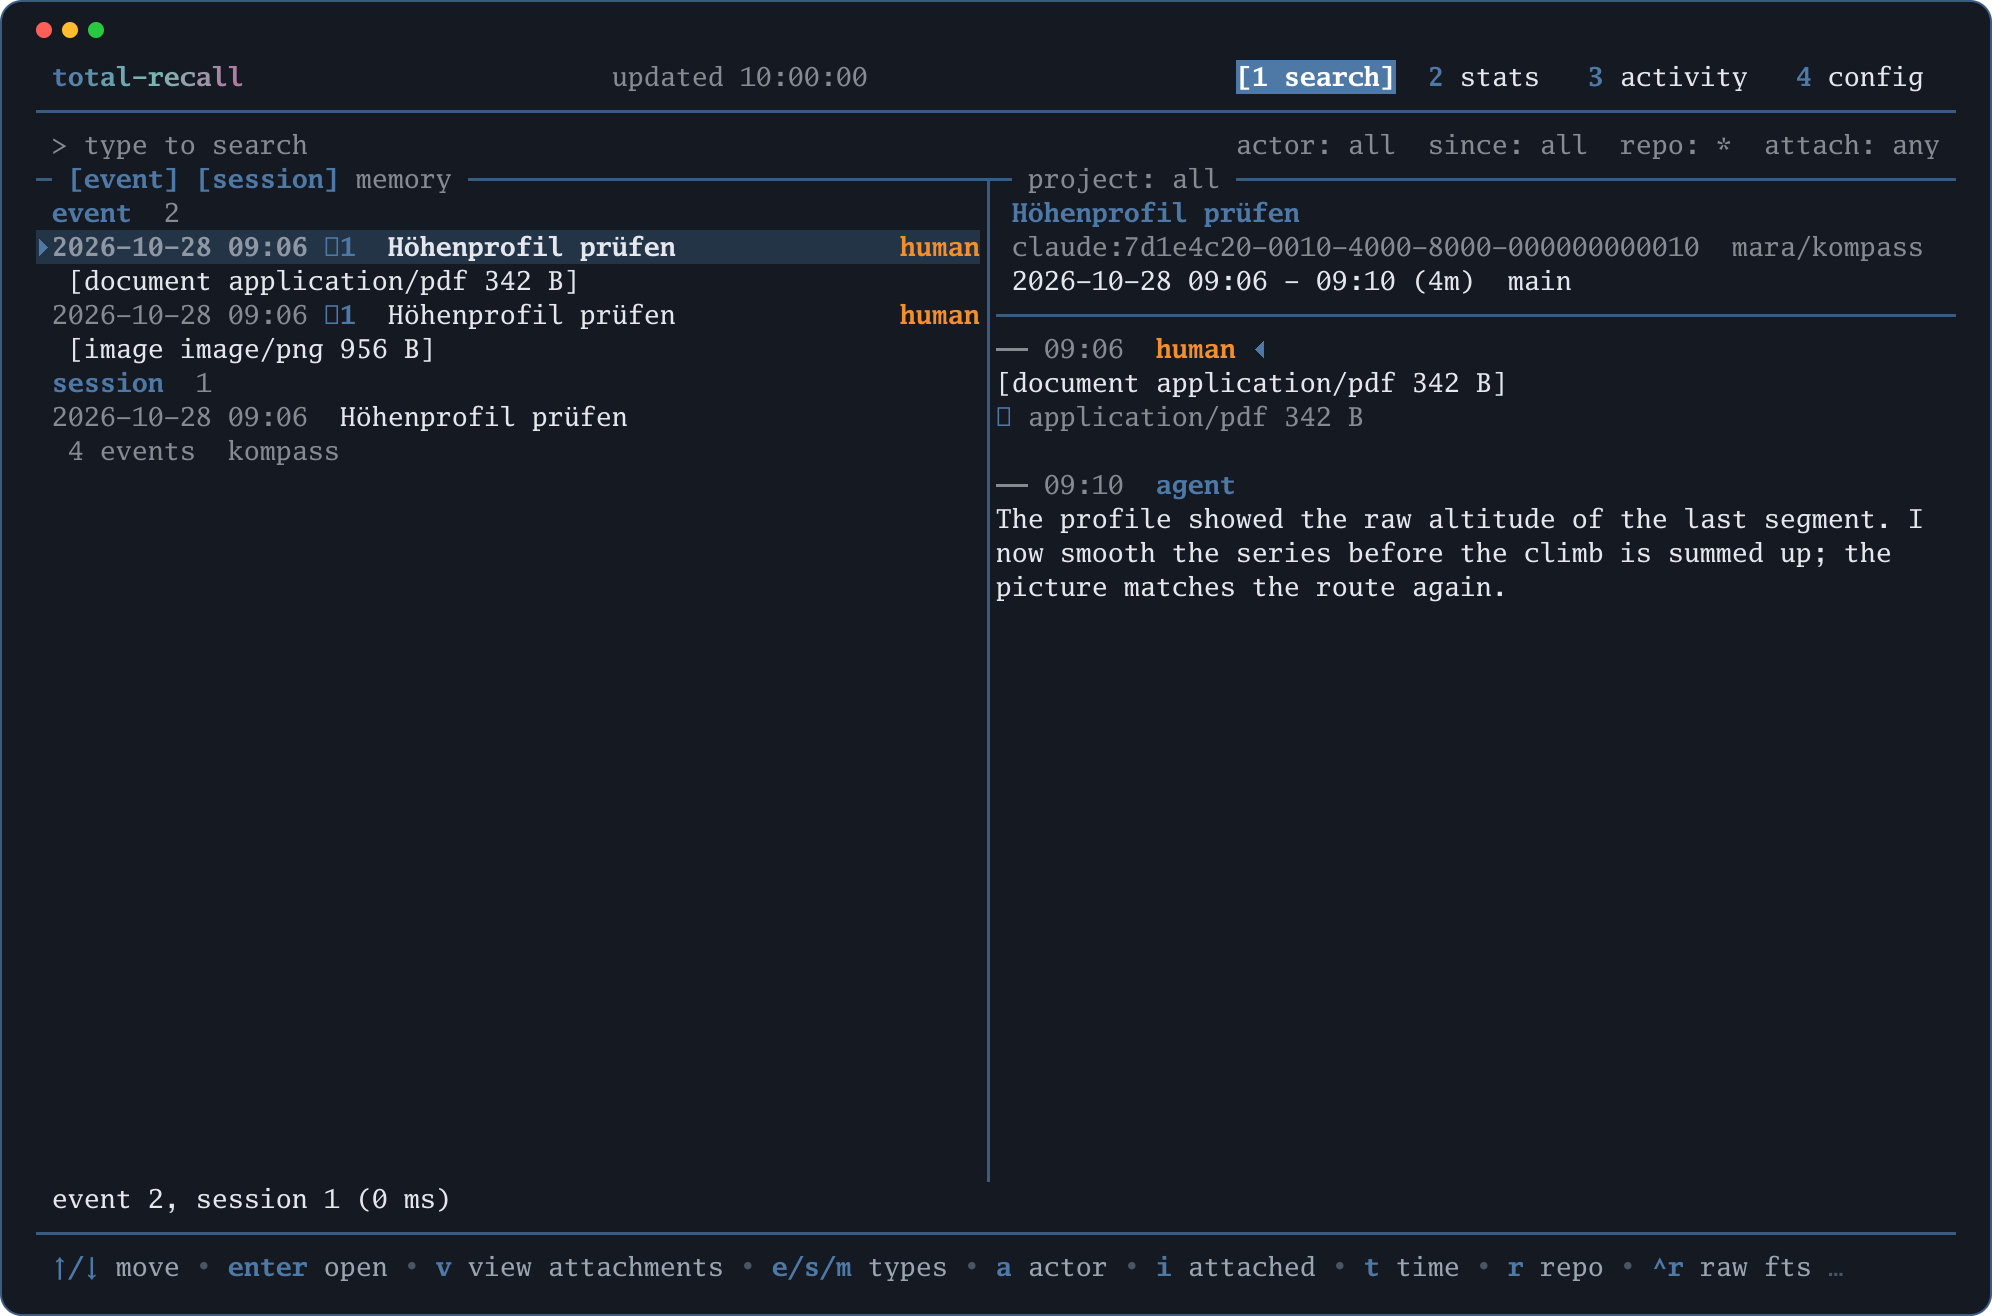
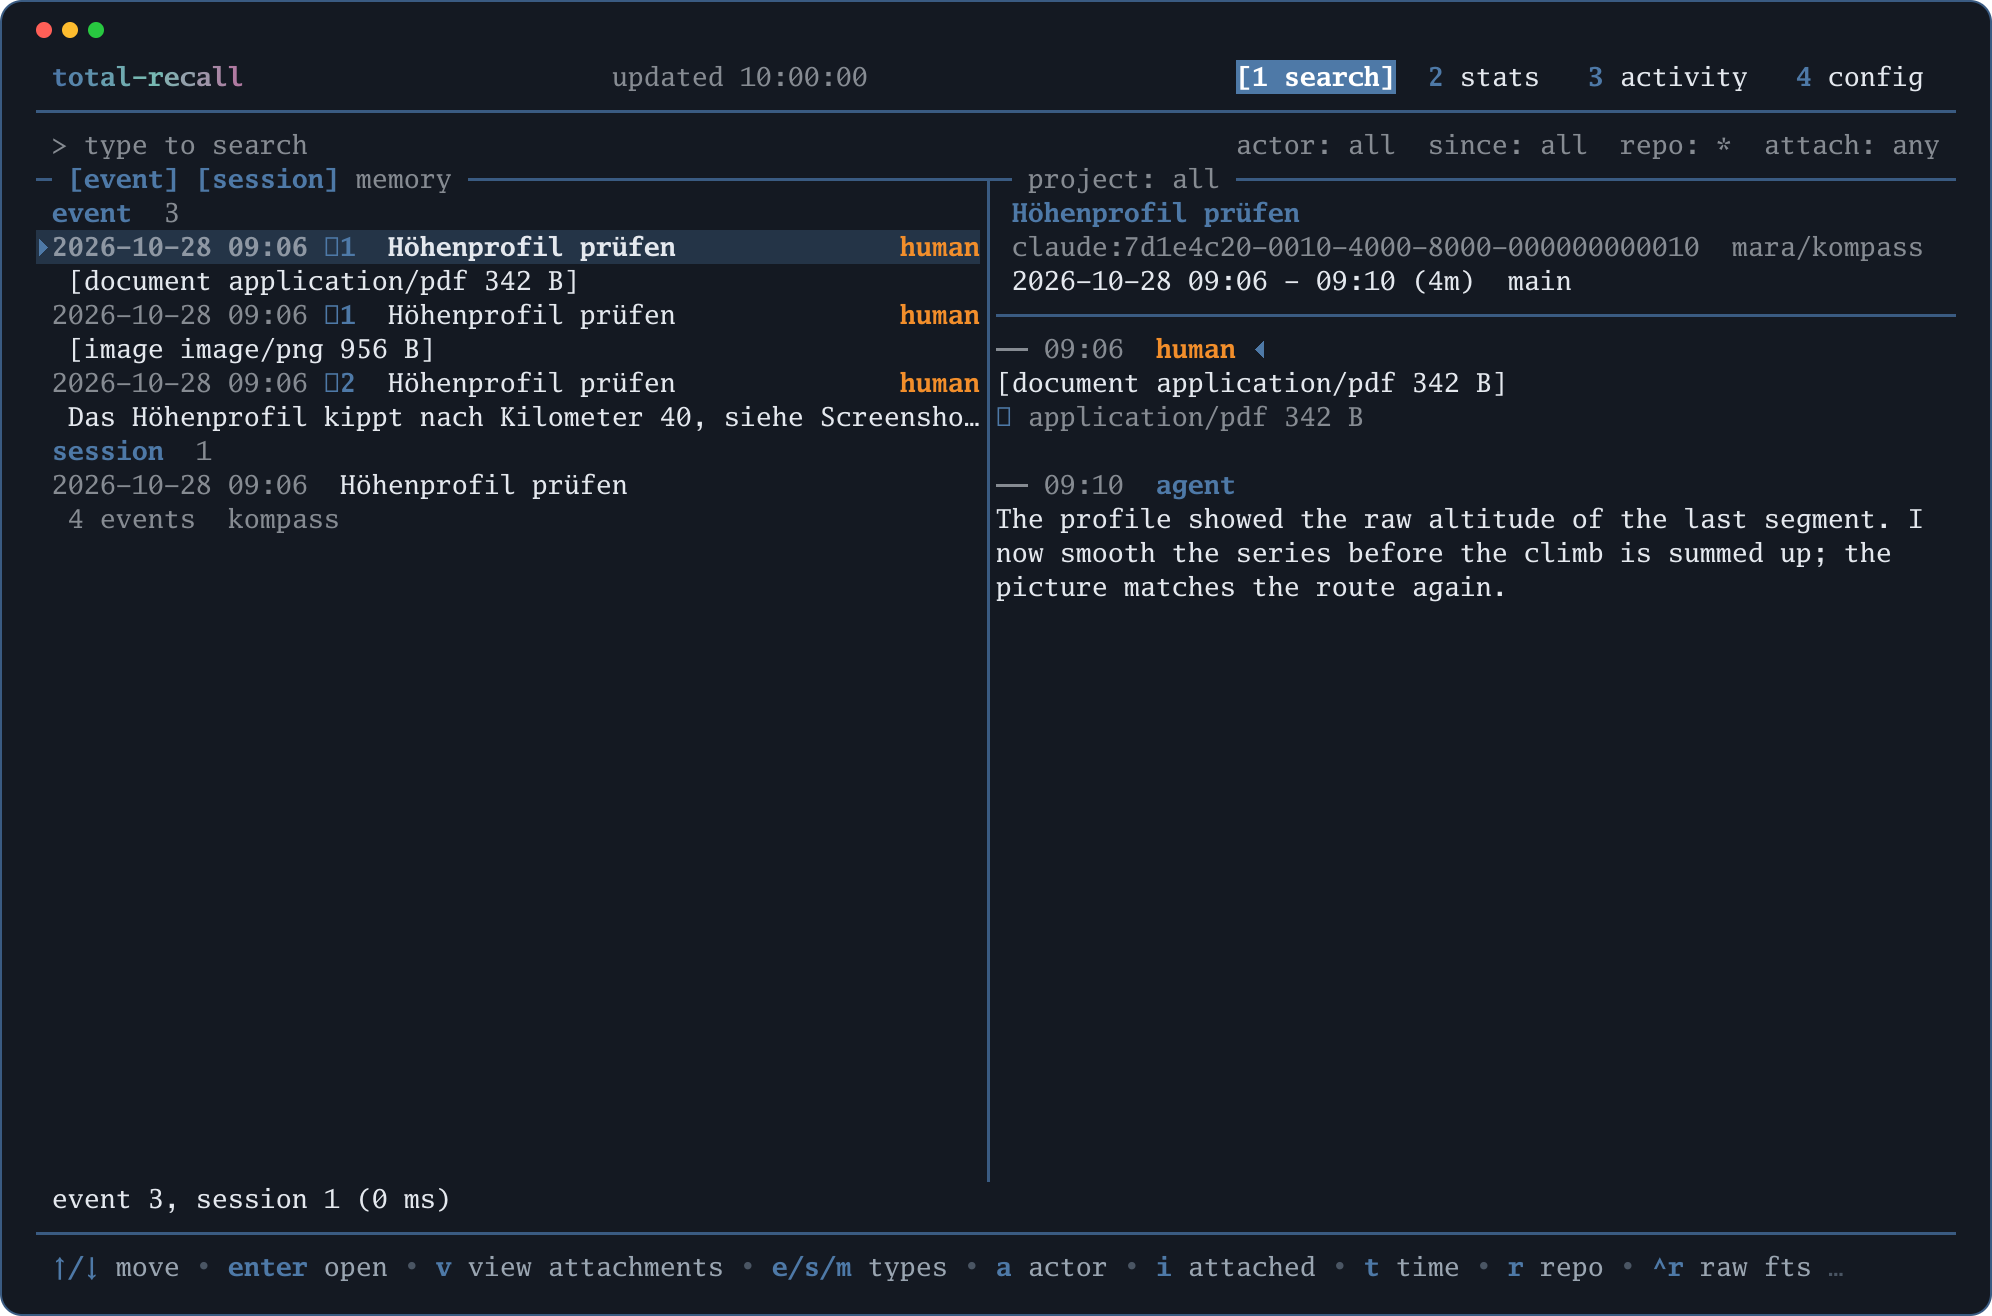
test(tui): attachment filter follows the pairing of text and image events

Changed region(s): [[0.0311, 0.2804, 0.3424, 0.405], [0.3735, 0.2804, 0.498, 0.3427]]

diff --git a/internal/tui/tui_test.go b/internal/tui/tui_test.go
@@ -628,12 +628,12 @@ func TestAttachmentView(t *testing.T) {
 		{"mark in the list", "image", []string{"tab"}, []string{"▣1", "v view attachments"}, nil},
 		{"text of a message with images", "Höhenprofil kippt", []string{"tab"}, []string{"▣2", "▣ image/png", "▣ application/pdf", "v view attachments"}, nil},
 		{"v on that text opens the image", "Höhenprofil kippt", []string{"tab", "v"}, []string{"› attachments", "[1 image/png", "png 96×48"}, nil},
-		{"empty search with the filter lists the attachments", "", []string{"tab", "i"}, []string{"attach: any", "▣1", "2 hits", "[image image/png", "[document application/pdf"}, []string{"Type to search"}},
-		{"only images", "", []string{"tab", "i", "i"}, []string{"attach: image", "1 hit", "[image image/png 956 B]"}, nil},
-		{"only documents", "", []string{"tab", "i", "i", "i"}, []string{"attach: document", "1 hit", "[document application/pdf 342 B]"}, nil},
+		{"empty search with the filter lists the attachments", "", []string{"tab", "i"}, []string{"attach: any", "▣1", "▣2", "3 hits", "[image image/png", "[document application/pdf", "Das Höhenprofil kippt"}, []string{"Type to search"}},
+		{"only images", "", []string{"tab", "i", "i"}, []string{"attach: image", "2 hits", "[image image/png 956 B]", "Das Höhenprofil kippt"}, nil},
+		{"only documents", "", []string{"tab", "i", "i", "i"}, []string{"attach: document", "2 hits", "[document application/pdf 342 B]", "Das Höhenprofil kippt"}, nil},
 		{"only attachments of the tool", "", []string{"tab", "a", "a", "a", "a", "i"}, []string{"actor: tool", "attach: any", "No attachments."}, nil},
 		{"filter off again", "", []string{"tab", "i", "i", "i", "i"}, []string{"Type to search"}, []string{"▣", "attach:"}},
-		{"sessions with an attachment", "", []string{"tab", "e", "s", "i"}, []string{"event  2", "session  1", "Höhenprofil prüfen"}, nil},
+		{"sessions with an attachment", "", []string{"tab", "e", "s", "i"}, []string{"event  3", "session  1", "Höhenprofil prüfen"}, nil},
 		{"from the search", "image", []string{"tab", "v"}, []string{"› attachments", "Höhenprofil prüfen", "png 96×48", "1 image/png", "2 application/pdf"}, nil},
 		{"next shows the document", "image", []string{"tab", "v", "right"}, []string{"Notes on the track format", "PDF 1.4"}, []string{"png 96×48"}},
 		{"back to the search", "image", []string{"tab", "v", "esc"}, []string{"[1 search]", "▣1"}, []string{"› attachments"}},

diff --git a/internal/screenshot/frames_test.go b/internal/screenshot/frames_test.go
@@ -64,7 +64,7 @@ func TestRenderAll(t *testing.T) {
 		"memory-diff":              {"› memory", "history of release-process.md", "· diff", "version 1 of 3 → ", "+8 -3", "@@ -1,9 +1,14 @@", " - A release is a tag on", " + A release is a signed tag on"},
 		"memory-timeline":          {"› memory", "kompass  timeline", "2026-10-28 10:00 ✗ old-notes.md", "2026-10-28 09:35 ~ MEMORY.md", "10 changes", "@@"},
 		"search-attachment":        {"[1 search]", "> image", "▣1", "Höhenprofil prüfen", "▣ image/png", "v view attachments"},
-		"search-attachment-filter": {"[1 search]", "> type to search", "attach: any", " event  2", " session  1", "▣1", "Höhenprofil prüfen", "i attached"},
+		"search-attachment-filter": {"[1 search]", "> type to search", "attach: any", " event  3", " session  1", "▣1", "Höhenprofil prüfen", "i attached"},
 		"attachment-image":         {"› attachments", "Höhenprofil prüfen", "[1 image/png", "2 application/pdf", "png 96×48", "total-recall blob", "▓"},
 		"attachment-document":      {"› attachments", "[2 application/pdf", "PDF 1.4", "pages", "Notes on the track format", "Mara Example"},
 		"attachment-narrow":        {"› attachments", "png 96×48", "total-recall blob"},

diff --git a/docs/reference/30-tui.md b/docs/reference/30-tui.md
@@ -204,7 +204,7 @@ Die Hervorhebung in Vorschau und Detailansicht nimmt die Wörter der Eingabe; in
 
 ### Anhänge finden { #anhaenge-finden }
 
-`i` schränkt die Suche auf das ein, was einen [Anhang](#anhaenge) hat: bei `event` die Events, die ein Bild oder Dokument tragen, bei `session` die Sessions mit mindestens einem solchen Event. `image` nimmt nur Bilder, `document` alles andere (PDF, Text). Der Actor-Filter `a` gilt dann auch für den Anhang: `human` sind die Bilder, die man selbst eingefügt hat, `tool` die Bilder aus Tool-Ergebnissen (Screenshots und Ähnliches), davon liegt im Archiv der größte Teil. `memory` hat keine Anhänge und bleibt mit dem Filter leer. Ohne Suchwort listet der Filter **die neuesten Anhänge**: Die leere Suche ist dann kein Hinweis mehr, sondern die Liste der neuesten Events (Zeit, Session, Text-Anfang, `▣` mit der Zahl) beziehungsweise Sessions mit Anhang, damit man ohne Stichwort einsteigen kann; mit Suchwort schränkt der Filter die Treffer ein. Zeitraum, Repo und Projekt-Pin gelten wie sonst. `i` steht in der Fußzeile (`i attached`) und ist dort mit der Maus klickbar wie jeder Hinweis; die Taste ist als `search_has_attachment` über `[keys]` änderbar. Auf der Kommandozeile entspricht dem `search --has-attachment`, siehe [Befehle](10-befehle.md#search).
+`i` schränkt die Suche auf das ein, was einen [Anhang](#anhaenge) hat: bei `event` die Events, die ein Bild oder Dokument tragen, und der Text-Event einer Nachricht mit Bildern (`[Image #1] …`, dieselbe Paarung wie bei `attachment_count`), bei `session` die Sessions mit mindestens einem solchen Event. `image` nimmt nur Bilder, `document` alles andere (PDF, Text). Der Actor-Filter `a` gilt dann auch für den Anhang: `human` sind die Bilder, die man selbst eingefügt hat, `tool` die Bilder aus Tool-Ergebnissen (Screenshots und Ähnliches), davon liegt im Archiv der größte Teil. `memory` hat keine Anhänge und bleibt mit dem Filter leer. Ohne Suchwort listet der Filter **die neuesten Anhänge**: Die leere Suche ist dann kein Hinweis mehr, sondern die Liste der neuesten Events (Zeit, Session, Text-Anfang, `▣` mit der Zahl) beziehungsweise Sessions mit Anhang, damit man ohne Stichwort einsteigen kann; mit Suchwort schränkt der Filter die Treffer ein. Zeitraum, Repo und Projekt-Pin gelten wie sonst. `i` steht in der Fußzeile (`i attached`) und ist dort mit der Maus klickbar wie jeder Hinweis; die Taste ist als `search_has_attachment` über `[keys]` änderbar. Auf der Kommandozeile entspricht dem `search --has-attachment`, siehe [Befehle](10-befehle.md#search).
 
 ![Filter „nur mit Anhang“ bei leerer Suche: die neuesten Events und Sessions mit Anhang, der Filter rechts in der Eingabezeile](../assets/screenshots/search-attachment-filter.png)
 
